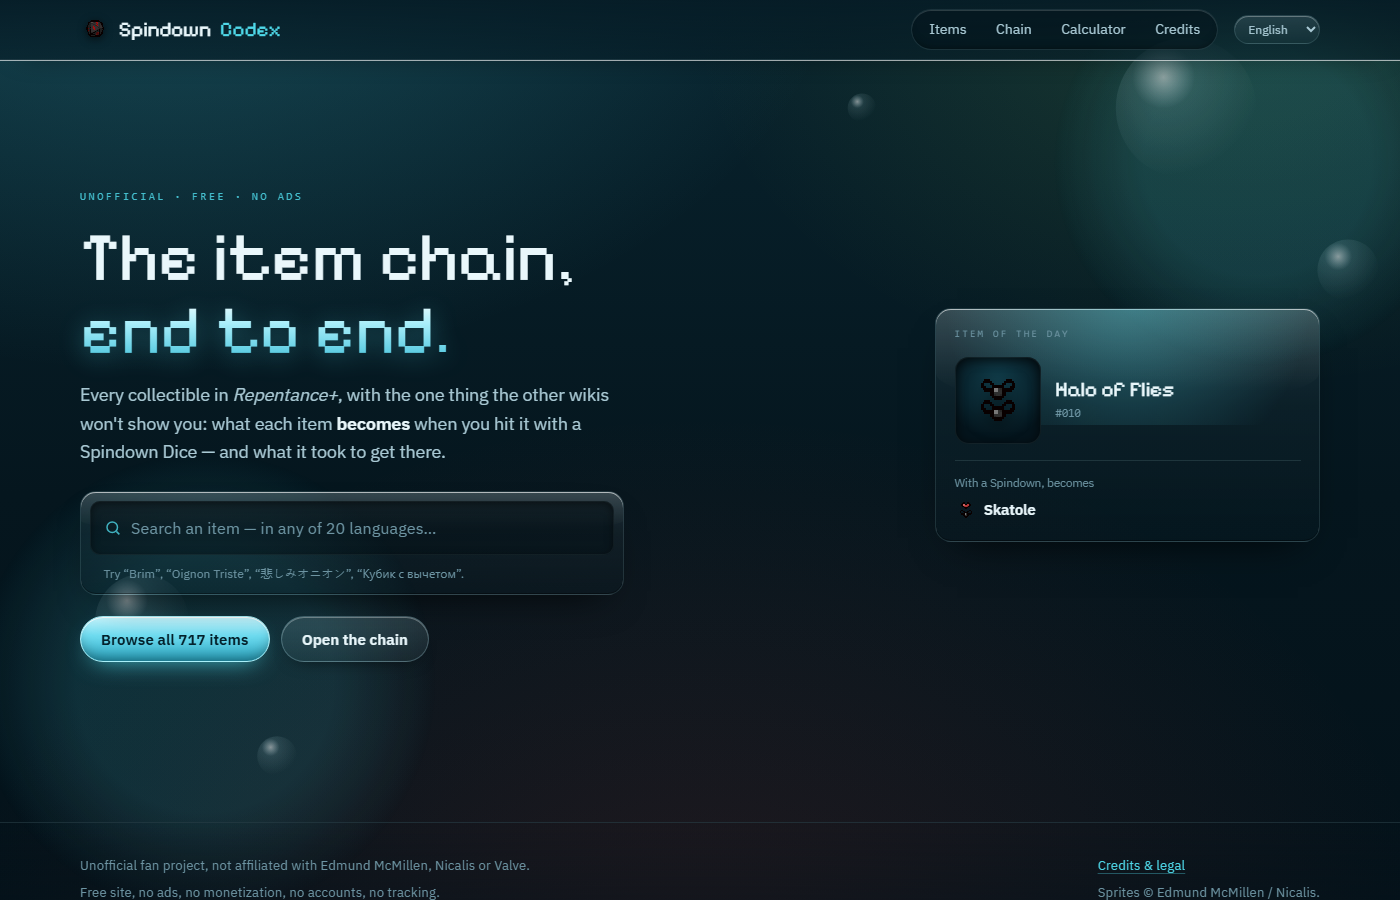
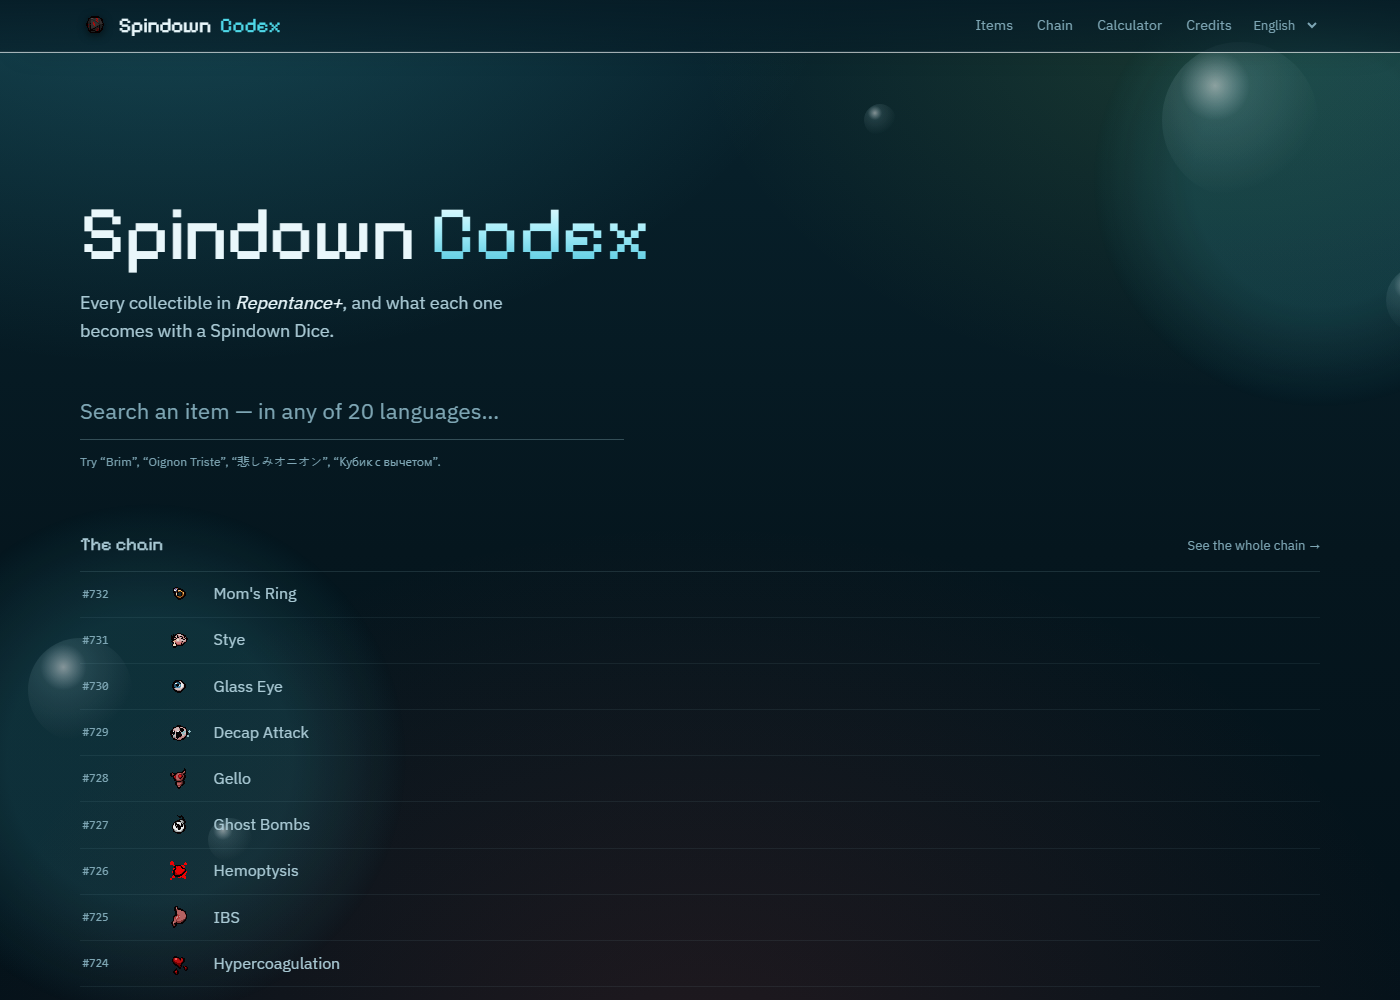
Showcase: remove the slogan line, refresh the screenshots

diff --git a/README.md b/README.md
@@ -4,8 +4,6 @@
 
 ### → [Open the site](https://26mataa.github.io/Spindown-codex/)
 
-*free · no ads · no account · no tracking*
-
 ![Home page](docs/shots/home.png)
 
 ---
